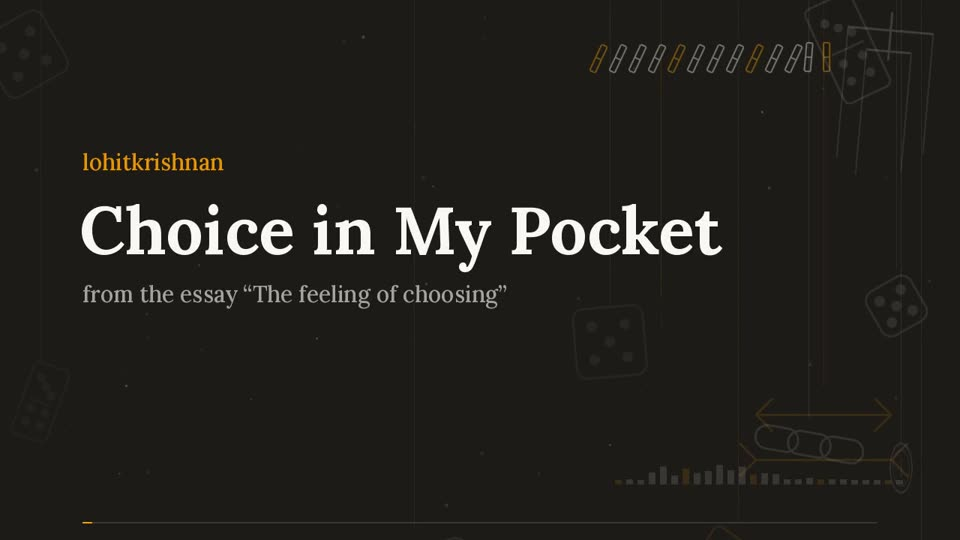
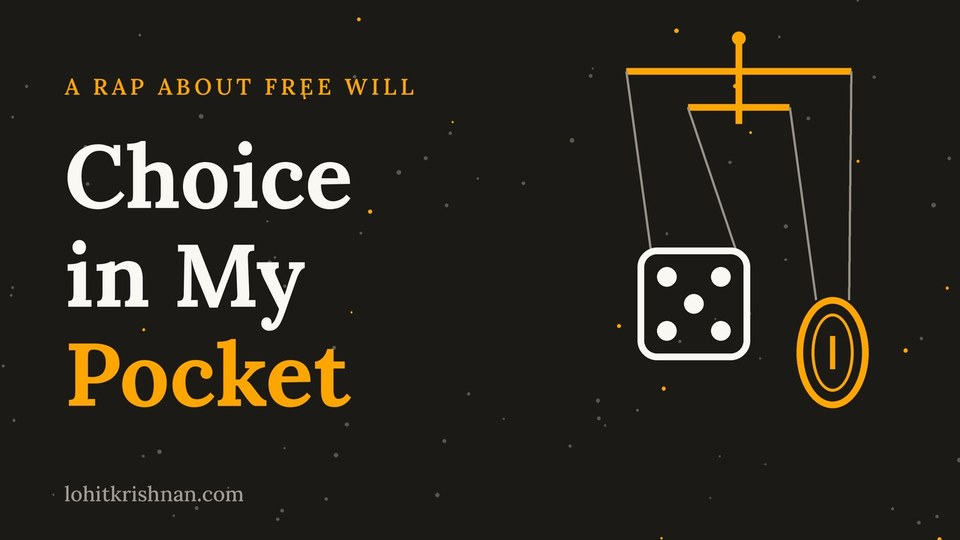
Songs: use the YouTube thumbnails as the previews on the essay page
Claude-Session: https://claude.ai/code/session_012Nx1YF8H1hgKK5rZRGkgvh

diff --git a/essays/the-feeling-of-choosing/index.html b/essays/the-feeling-of-choosing/index.html
@@ -179,14 +179,14 @@
             <div class="song-list">
                 <figure class="song">
                     <a class="song-player" href="https://www.youtube.com/watch?v=IGP9kaS1Pns" data-youtube="IGP9kaS1Pns" data-goatcounter-click="song-choice-in-my-pocket" data-goatcounter-title="Song: Choice in My Pocket" aria-label="Play Choice in My Pocket (lyric video)">
-                        <img src="/img/song-choice-in-my-pocket.jpg" alt="" loading="lazy" width="960" height="540">
+                        <img src="/img/song-choice-in-my-pocket.jpg?v=2" alt="" loading="lazy" width="960" height="540">
                         <span class="song-play" aria-hidden="true"><svg viewBox="0 0 24 24"><path d="M8 5.5v13l11-6.5z"/></svg></span>
                     </a>
                     <figcaption>Choice in My Pocket</figcaption>
                 </figure>
                 <figure class="song">
                     <a class="song-player" href="https://www.youtube.com/watch?v=yFqm2cRUVk4" data-youtube="yFqm2cRUVk4" data-goatcounter-click="song-feels-like-me" data-goatcounter-title="Song: Feels Like Me" aria-label="Play Feels Like Me (lyric video)">
-                        <img src="/img/song-feels-like-me.jpg" alt="" loading="lazy" width="960" height="540">
+                        <img src="/img/song-feels-like-me.jpg?v=2" alt="" loading="lazy" width="960" height="540">
                         <span class="song-play" aria-hidden="true"><svg viewBox="0 0 24 24"><path d="M8 5.5v13l11-6.5z"/></svg></span>
                     </a>
                     <figcaption>Feels Like Me</figcaption>
